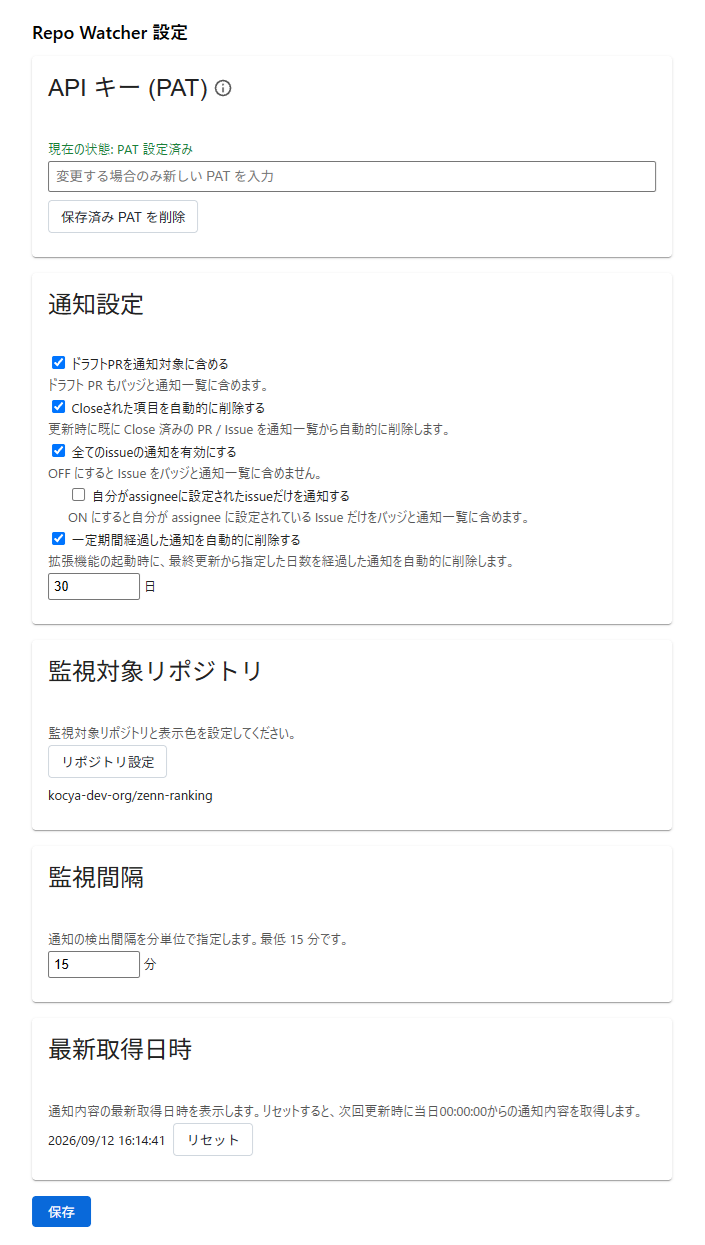
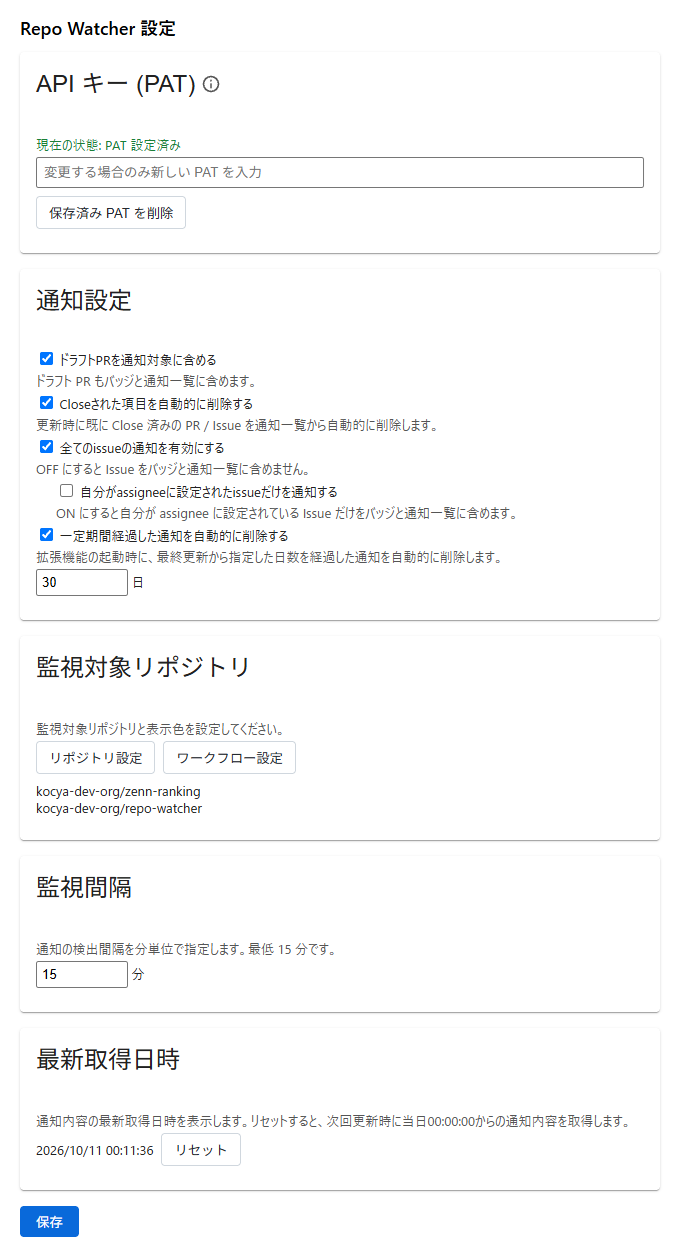
fix: update PAT permissions in documentation for repo and workflow

diff --git a/docs/ja/index.md b/docs/ja/index.md
@@ -35,7 +35,7 @@ PAT は GitHubの`Settings` > `Developer Settings`より作成してください
 > [!note]
 >
 > - Organization以下のInternal/Privateリポジトリを監視する場合は、Resource ownerにOrganizationを設定してください。
-> - Classic な PAT を作成する場合は、`repo`権限を付与してください。
+> - Classic な PAT を作成する場合は、`repo`権限と`workflow`権限を付与してください。
 
 ## 初期設定
 

diff --git a/docs/en/index.md b/docs/en/index.md
@@ -35,7 +35,7 @@ When you choose All repositories or Only select repositories, the required permi
 > [!note]
 >
 > - If you want to monitor Internal/Private repositories under an organization, set the resource owner to the organization.
-> - If you create a classic PAT, grant the repo permission.
+> - If you create a classic PAT, grant the repo and workflow permissions.
 
 ## Initial setup
 
